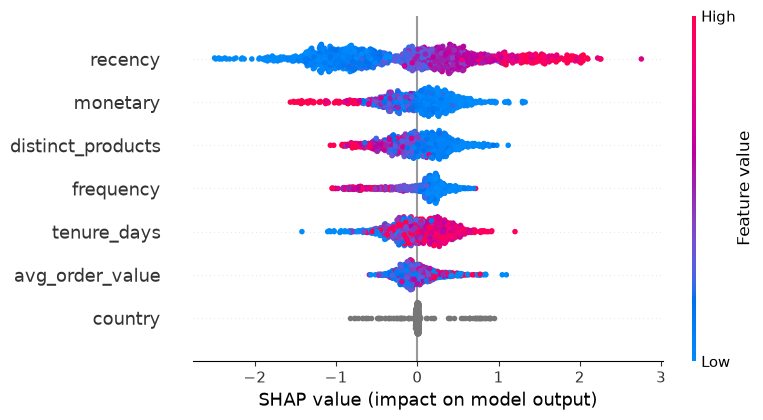
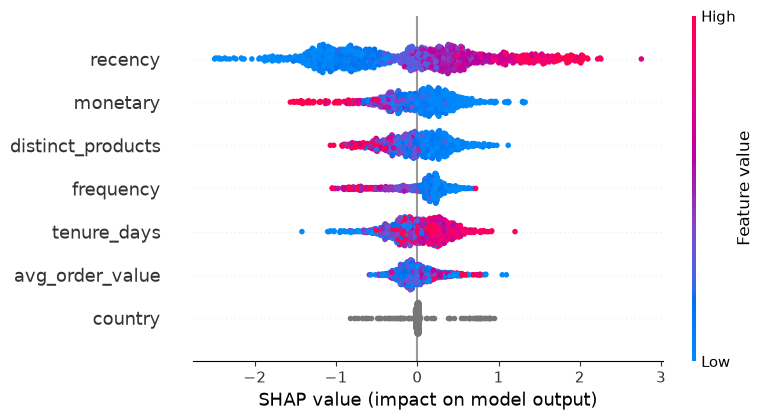
fix: gate MLflow model promotion on metric comparison instead of always-promote
Her notebook calistirmasinda registry'ye yeni versiyon eklenip otomatik
Production yapilmasi, manuel arsivleme gerektiren tekrarlayan bir sorun
haline gelmisti. promote_if_better() artik yeni versiyonu mevcut production
ile karsilastirip sadece gercekten daha iyiyse terfi ettiriyor.

K-Means/kumeleme modelinde bu kapi kasitli olarak kullanilmiyor - silhouette
skoru yaniltici olabildigi icin (Mini Proje 2'de dusuk skorlu modeli bilerek
sectik), promosyon karari hala elle/kume buyuklugune bakilarak veriliyor.

diff --git a/notebooks/mlflow_utils.py b/notebooks/mlflow_utils.py
@@ -1,0 +1,54 @@
+"""Notebooklar arasinda paylasilan MLflow yardimcilari.
+
+Sadece egitim/notebook tarafinda kullanilir - FastAPI uygulamasinin
+runtime kodu (main.py) bu modulu import etmez.
+"""
+
+
+def promote_if_better(client, model_name, new_version, metric_key, higher_is_better=True):
+    """Yeni versiyonu, mevcut 'production' alias'liyla karsilastirip sadece
+    metrigi daha iyiyse Production yapar; degilse hicbir sey degistirmez.
+
+    Bu fonksiyon, "metrigi her zaman dogru yorumlanabilen" modeller icin
+    uygundur (orn. PR-AUC, calibration correlation - yuksek = acikca daha iyi).
+
+    UYARI - K-Means/kumeleme modelleri icin KULLANMAYIN: silhouette skoru
+    yaniltici olabilir (bkz. Gun 8-9 K=2 ve Mini Proje 2 baseline orneklari -
+    yuksek skor, anlamsiz/dengesiz kumelerden gelebilir). Kumeleme modelinde
+    "daha iyi" karari kume buyukluklerine bakan bir insan tarafindan verilmeli,
+    bu yuzden o notebooklarda promosyon hala elle yapiliyor.
+    """
+    new_run = client.get_run(client.get_model_version(model_name, new_version).run_id)
+    new_metric = new_run.data.metrics.get(metric_key)
+
+    try:
+        current_prod = client.get_model_version_by_alias(model_name, "production")
+        current_run = client.get_run(current_prod.run_id)
+        current_metric = current_run.data.metrics.get(metric_key)
+    except Exception:
+        current_prod = None
+        current_metric = None
+
+    is_better = (
+        current_metric is None
+        or (higher_is_better and new_metric > current_metric)
+        or (not higher_is_better and new_metric < current_metric)
+    )
+
+    if is_better:
+        client.set_registered_model_alias(model_name, "production", new_version)
+        client.set_model_version_tag(model_name, new_version, "stage", "Production")
+        if current_prod is not None:
+            client.set_model_version_tag(model_name, current_prod.version, "stage", "Archived")
+        print(
+            f"{model_name} v{new_version} -> PRODUCTION "
+            f"({metric_key}={new_metric:.4f} vs onceki={current_metric})"
+        )
+    else:
+        client.set_model_version_tag(model_name, new_version, "stage", "Archived")
+        print(
+            f"{model_name} v{new_version} -> ARCHIVED, promote edilmedi "
+            f"({metric_key}={new_metric:.4f} <= mevcut production={current_metric:.4f})"
+        )
+
+    return is_better